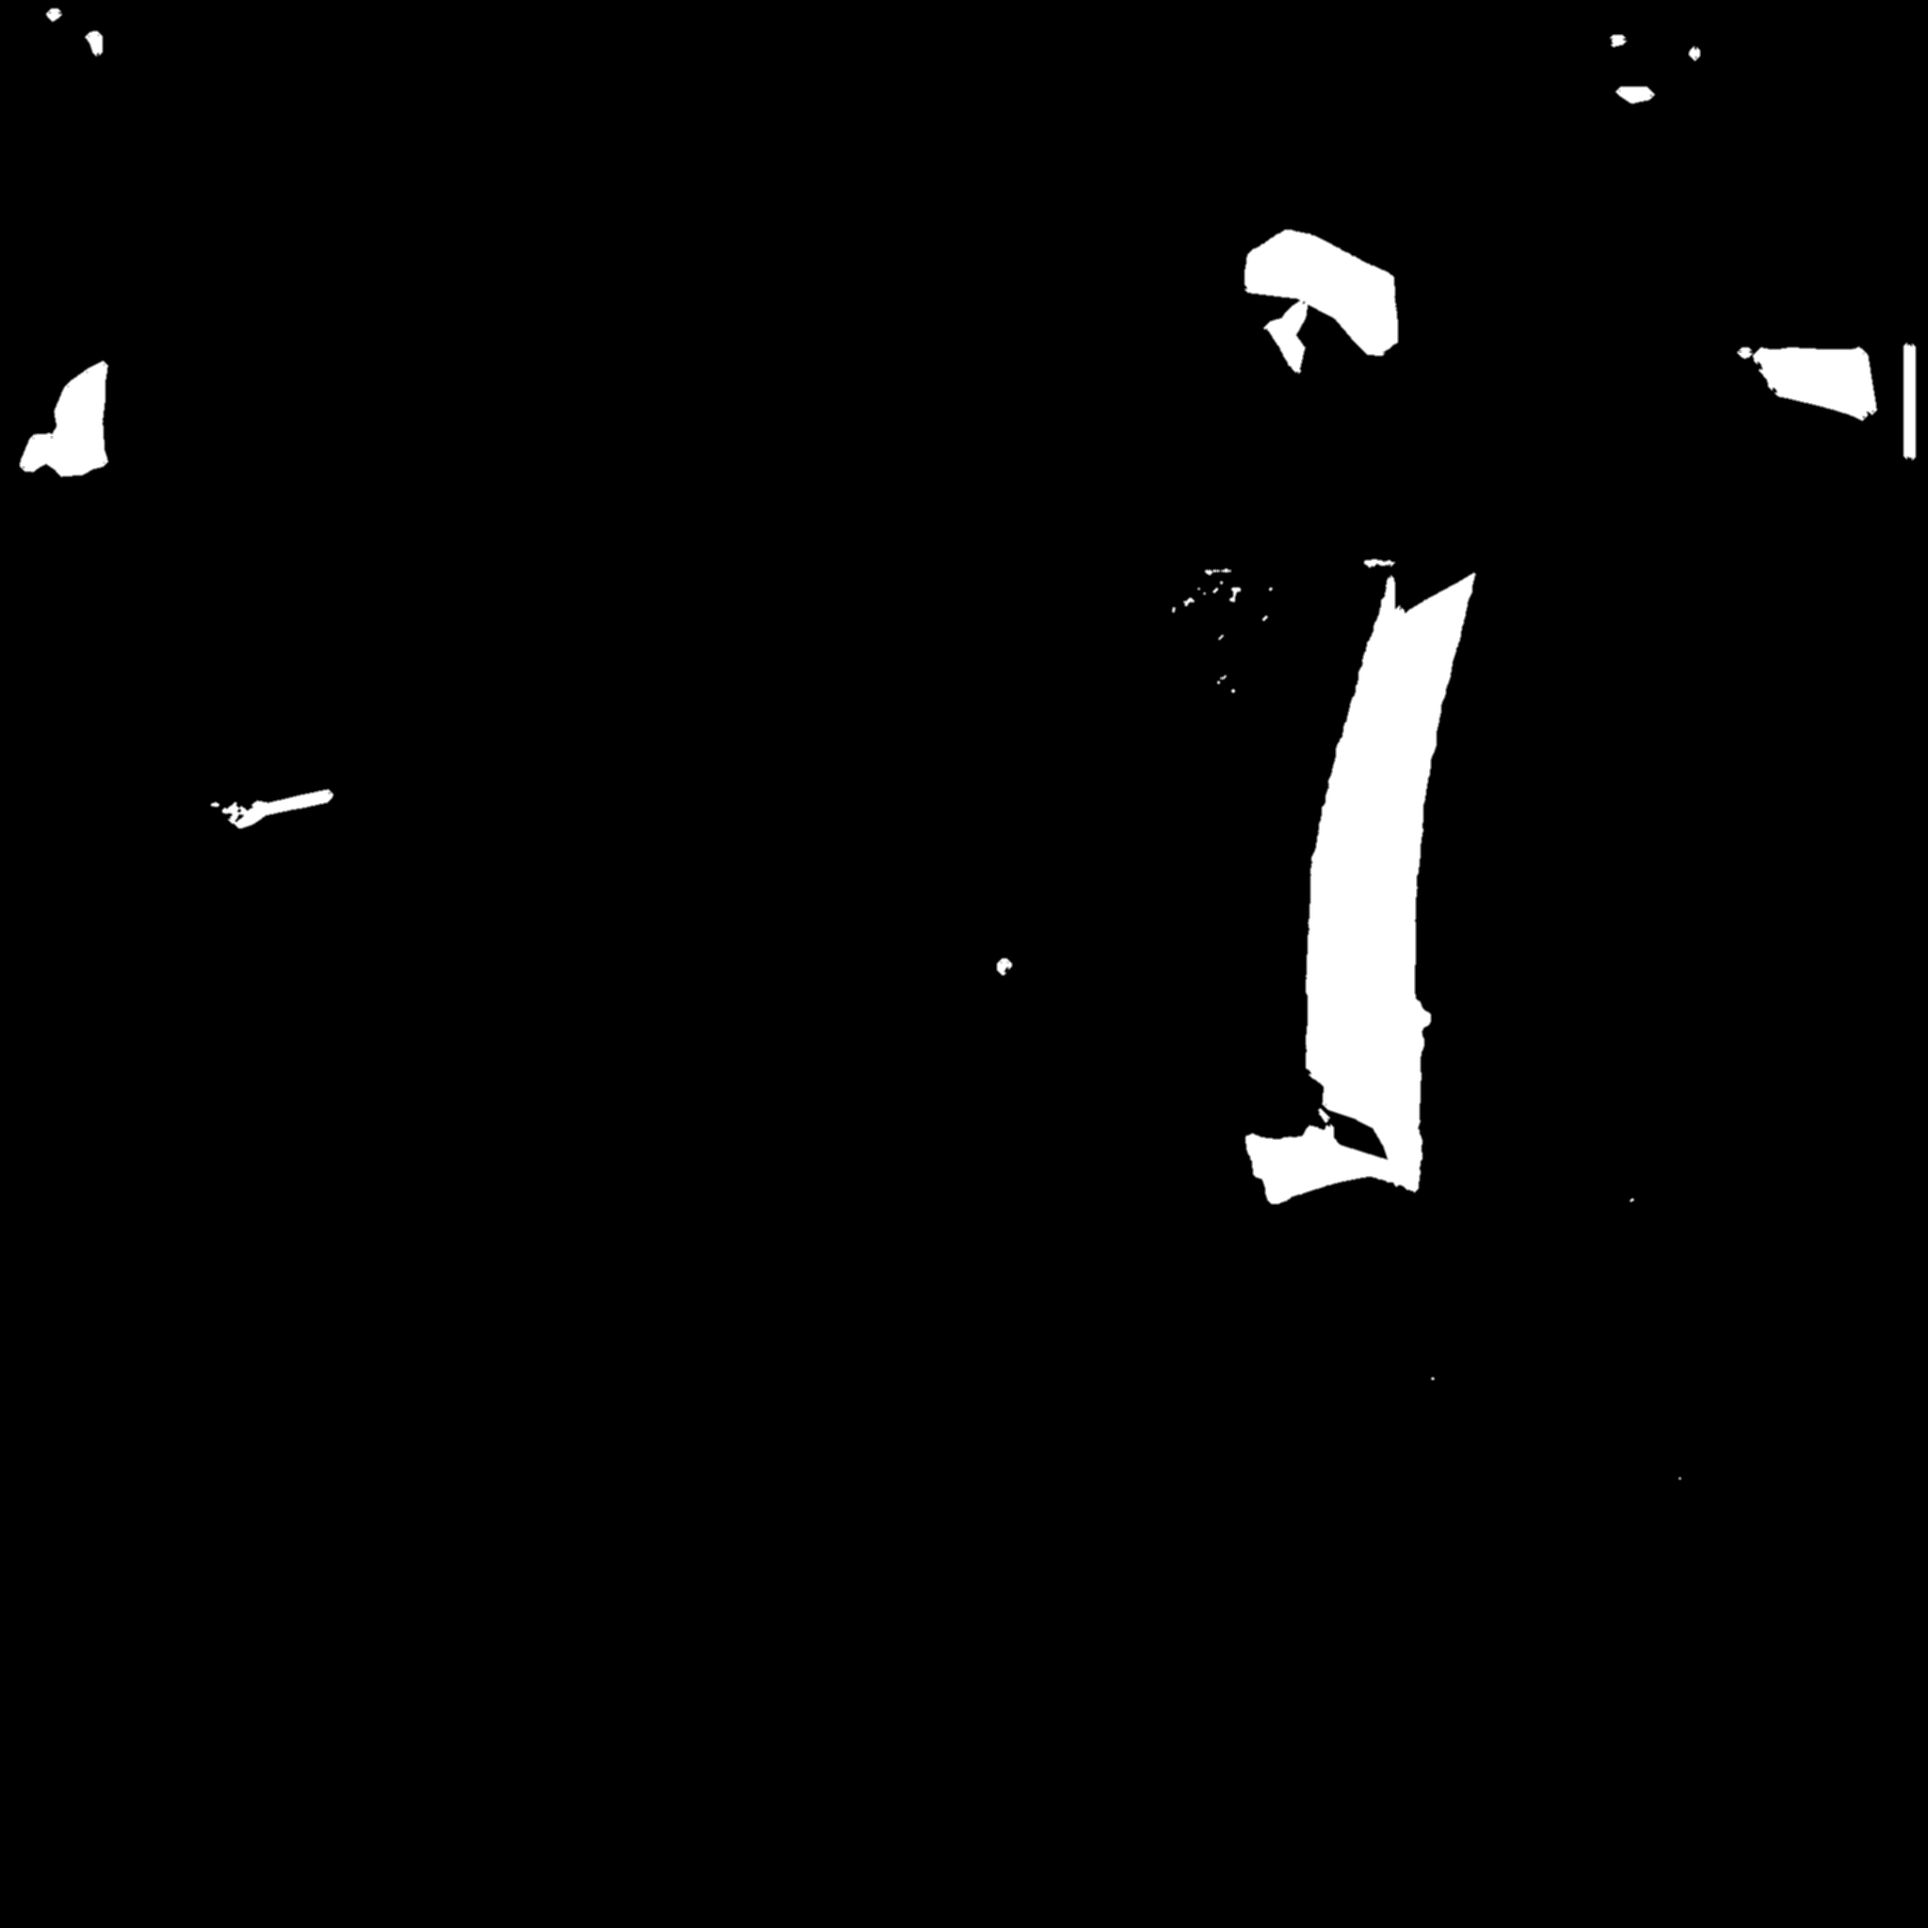
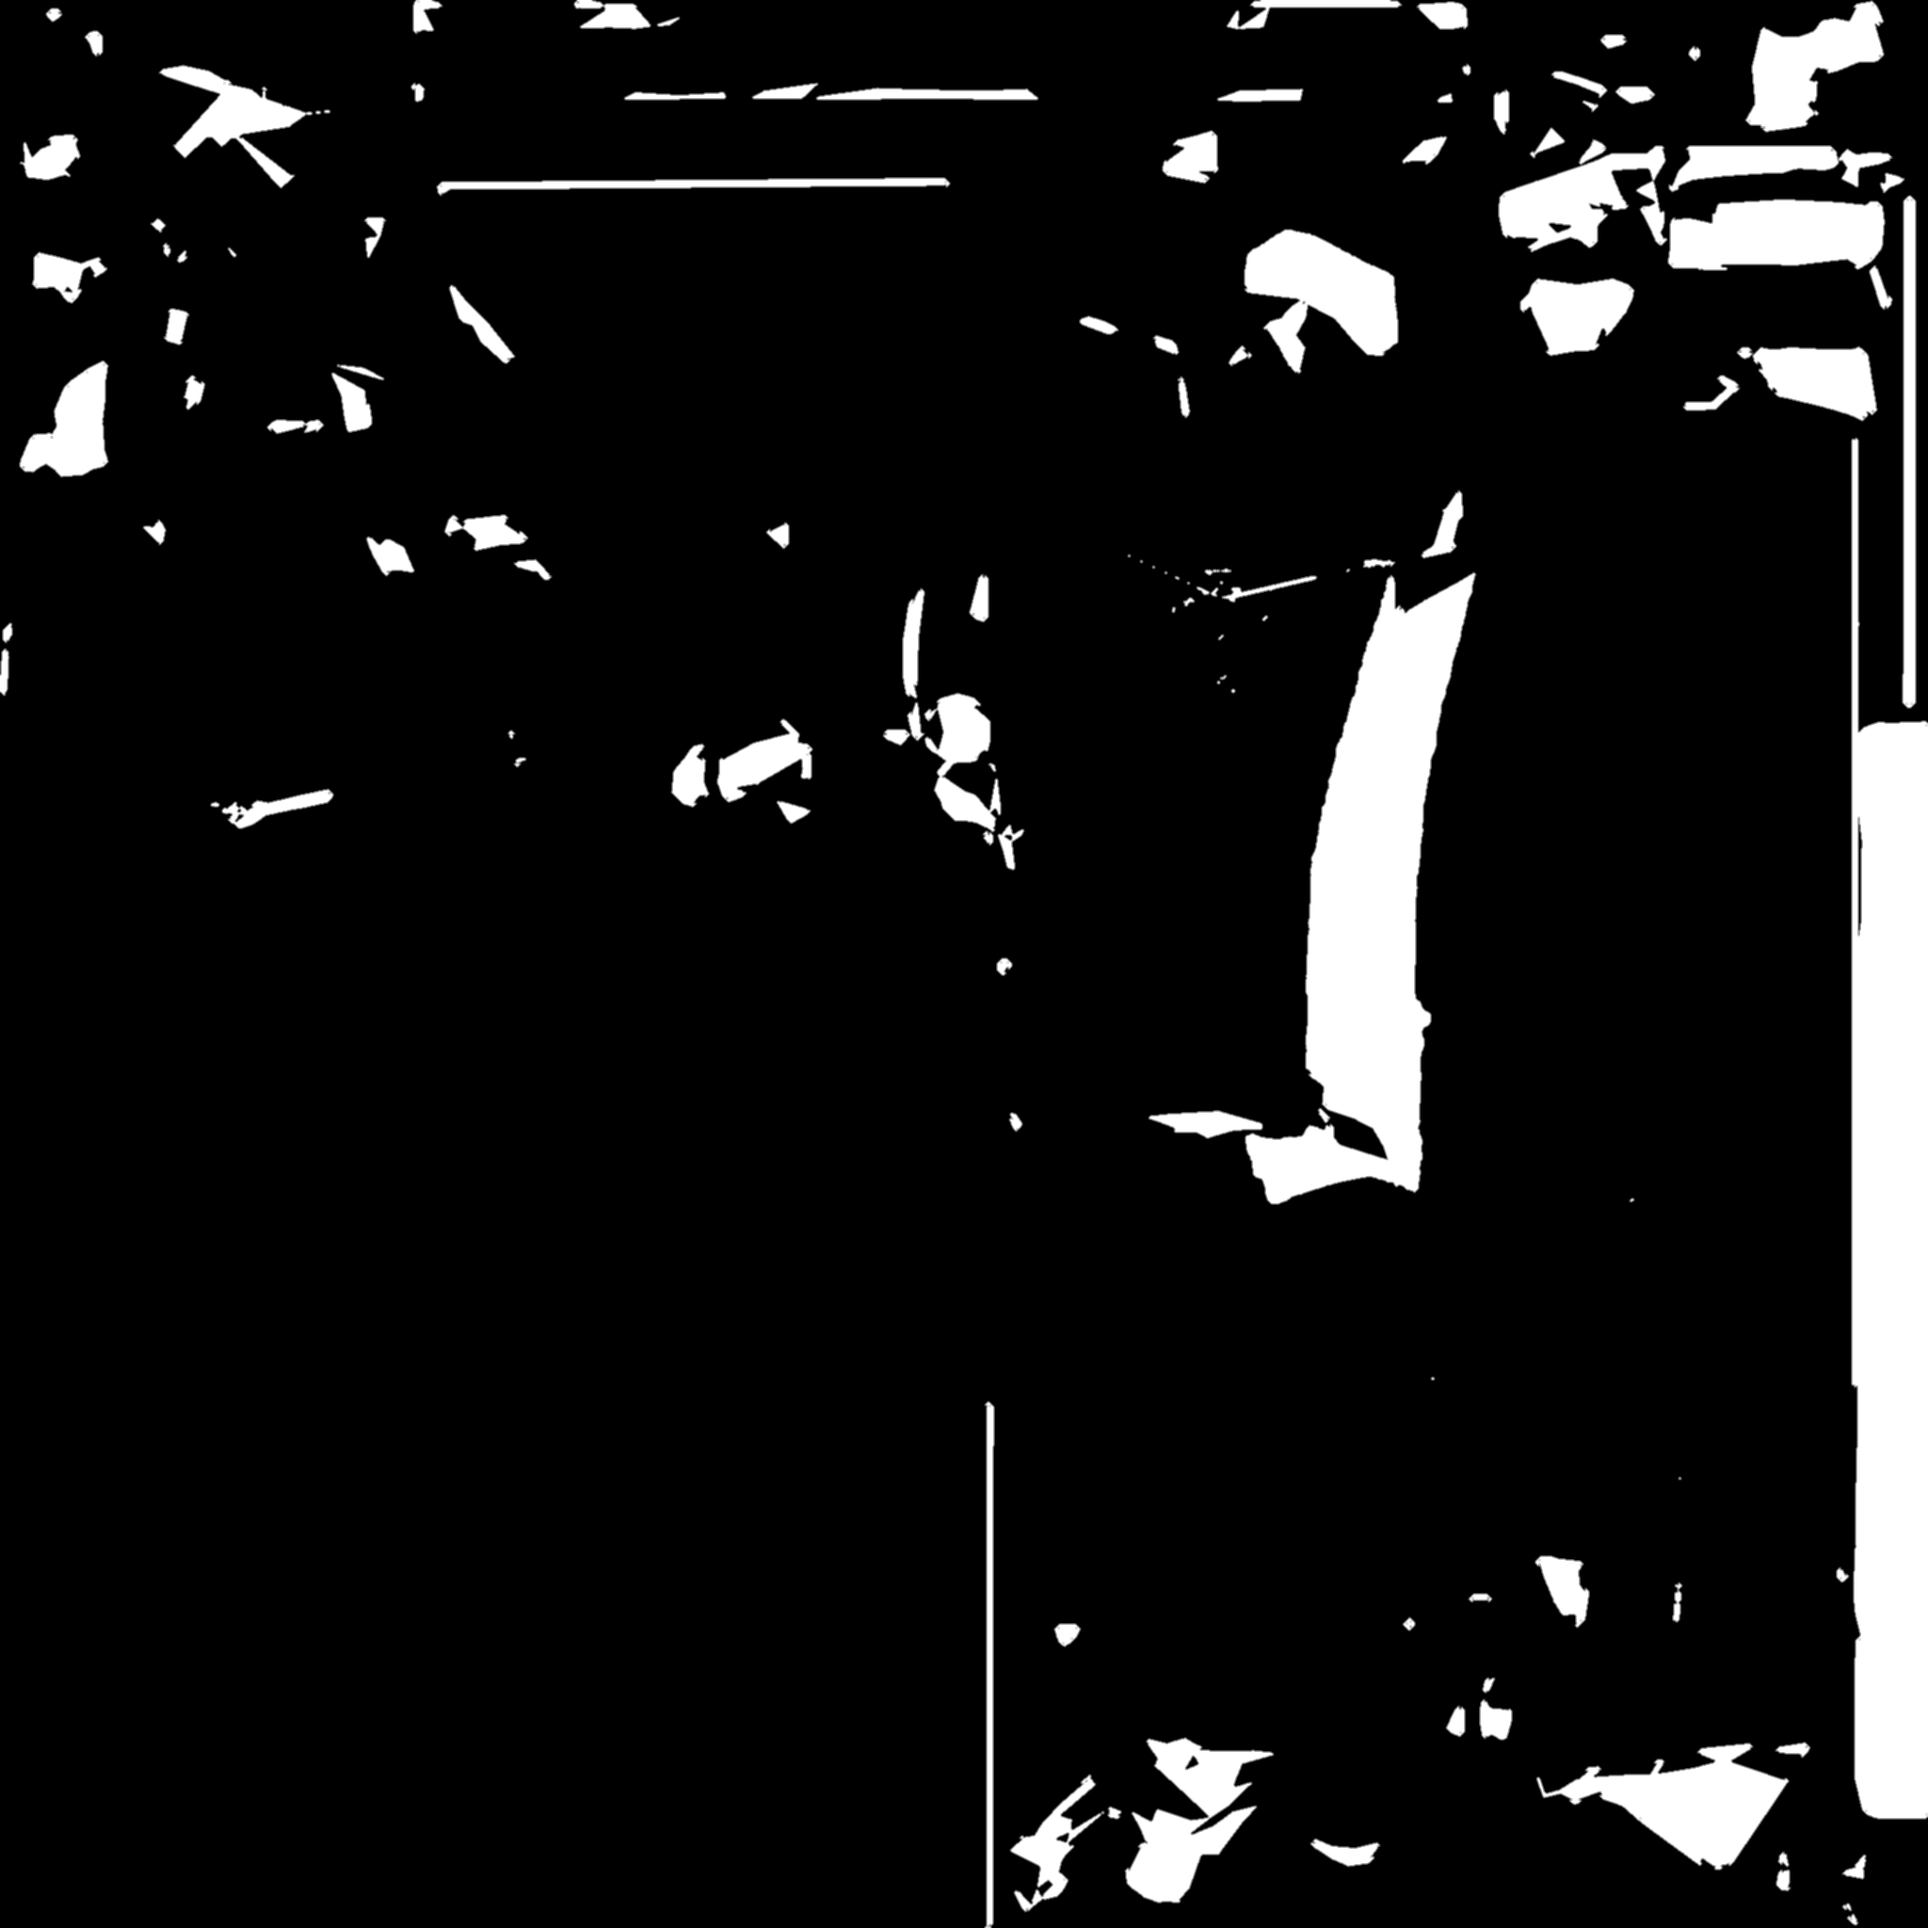
Proceso 58: más color del equipo en los edificios (faja bajo el alero y cumbrera en la máscara); Tawantinsuyu aprobado

diff --git a/tools/mascara_equipo_3d.py b/tools/mascara_equipo_3d.py
@@ -21,6 +21,9 @@ Además:
 - imprime `luz_ref` (luminancia lineal media de lo enmascarado), que el shader usa para que el
   color del equipo salga con el brillo de la tela original;
 - --hoja arma la comprobación: atlas | máscara;
+- --faja=f y --cumbrera=c (edificios): además del rojo de la textura, una faja en las paredes justo
+  bajo el techo o una terraza (a menos de f × alto) y la cumbrera (los techos en el c × alto de
+  arriba), para que el color del equipo se vea desde la cámara del juego;
 - --edificio (proceso/58-edificios-locales): sin detección de manos ni brazos y un rojo más estricto
   (--tono, --sat, --val ajustan el corte), para las telas y fajas rojas de los edificios.
 
@@ -87,12 +90,36 @@ else:
 
 # Rasterizado de los triángulos en UV: qué texeles cubre alguna cara, cuáles están en la banda y
 # cuáles son de las manos.
+# Faja bajo el alero y cumbrera (edificios, proceso/58): superficie geométrica que también toma el
+# color del equipo, aunque la textura no la traiga en rojo (una faja tejida bajo la paja, una
+# cumbrera). --faja=f: paredes con un techo (o una terraza) a menos de f × alto por encima;
+# --cumbrera=c: techos en el c × alto más alto del modelo.
+faja = float(opt.get("faja", "0"))
+cumbrera = float(opt.get("cumbrera", "0"))
+dup = None
+if faja > 0 or cumbrera > 0:
+    from mathutils import Vector
+    from mathutils.bvhtree import BVHTree
+    m3 = mw.to_3x3()
+    wv = [mw @ vx.co for vx in me.vertices]
+    bvh = BVHTree.FromPolygons(wv, [pl.vertices[:] for pl in me.polygons])
+    zw = np.array([p.z for p in wv], np.float32)
+    alto = float(zw.max() - zw.min())
+    pn = [(m3 @ pl.normal).normalized() for pl in me.polygons]
+    dup = np.full(len(wv), 10.0, np.float32)  # distancia al techo de arriba, en fracción del alto
+    arriba = Vector((0, 0, 1))
+    for i, p in enumerate(wv):
+        o = p + (m3 @ me.vertices[i].normal).normalized() * (0.01 * alto) + arriba * (0.002 * alto)
+        hit = bvh.ray_cast(o, arriba, alto)
+        if hit[0] is not None and abs(pn[hit[2]].z) > 0.25:  # el alero por abajo (malla cerrada) o una terraza
+            dup[i] = hit[3] / alto
 me.calc_loop_triangles()
 uv = me.uv_layers.active.data
 cubre = np.zeros((H, W), bool)
 en_banda = np.zeros((H, W), bool)
 de_mano = np.zeros((H, W), bool)
 de_brazo = np.zeros((H, W), bool)
+geo = np.zeros((H, W), bool)  # faja y cumbrera
 for t in me.loop_triangles:
     p = np.array([uv[l].uv[:] for l in t.loops], dtype=np.float64) * [W, H]
     zz = float(np.mean(z[list(t.vertices)]))
@@ -117,6 +144,15 @@ for t in me.loop_triangles:
     cubre[sub] |= dentro
     if ok:
         en_banda[sub] |= dentro
+    if dup is not None:
+        vi = list(t.vertices)
+        nz = (m3 @ t.normal).normalized().z
+        if faja > 0 and abs(nz) < 0.5:
+            dd = l1 * dup[vi[0]] + l2 * dup[vi[1]] + l3 * dup[vi[2]]
+            geo[sub] |= dentro & (dd < faja)
+        if cumbrera > 0 and nz > 0.3:
+            zt = l1 * z[vi[0]] + l2 * z[vi[1]] + l3 * z[vi[2]]
+            geo[sub] |= dentro & (zt > 1.0 - cumbrera)
     if mano[list(t.vertices)].sum() >= 2:
         de_mano[sub] |= dentro
     if "con-brazos" not in opt and brazo[list(t.vertices)].sum() >= 2:
@@ -161,6 +197,9 @@ else:
     gris = (s < 0.10) & (v < 0.55)  # metal, piedra
     m = ~piel & ~pelo & ~gris
 m &= cubre & en_banda if banda is not None else cubre
+if dup is not None:
+    print(f"FAJA/CUMBRERA: {geo.sum() / max(1, cubre.sum()):.1%} de la superficie")
+    m |= geo & cubre
 m &= ~de_mano  # las manos nunca (palmas rojizas, la herramienta en el puño)
 if "dbg" in opt and metodo == "ropa":
     zona = cubre & en_banda

diff --git a/proceso/58-edificios-locales/armar_piezas.py b/proceso/58-edificios-locales/armar_piezas.py
@@ -228,8 +228,10 @@ SEMILLA2 = {"tawantinsuyu_casa_rojo": 22, "tawantinsuyu_centro": 22, "tawantinsu
             "tawantinsuyu_qollqa": 22, "tawantinsuyu_campo_tiro": 22, "tawantinsuyu_torre": 21,
             "tawantinsuyu_fortaleza": 21, "tawantinsuyu_mercado": 22, "tawantinsuyu_ushnu": 21, "tawantinsuyu_maravilla": 21}
 TEXTURA_PX2 = 2048
+# Terrazas sin alero: la faja no las encuentra; la cumbrera tiñe la plataforma de arriba.
+MASCARA_PIEZA = {"tawantinsuyu_fortaleza": {"cumbrera": 0.12}, "tawantinsuyu_maravilla": {"cumbrera": 0.12}}
 # Paint corre el rojo al carmesí (330–345°): tono más ancho donde los techos no son rojizos.
-MASCARA2 = {"tawantinsuyu": {"tono": 22}}  # Paint a 2048 para que la paja no se vuelva una lámina lisa
+MASCARA2 = {"tawantinsuyu": {"tono": 22, "faja": 0.15, "cumbrera": 0.1}}  # Paint a 2048 para que la paja no se vuelva una lámina lisa
 
 
 def prompt2(civ, tipo, que, rojo):
@@ -298,7 +300,7 @@ def main():
                 pieza["textura_px"] = TEXTURA_PX2
                 pieza["mezcla"] = True  # techos de la referencia (gen3d_mezcla.py): la paja no se alisa
                 pieza["suelo_pct"] = 6  # la sombra de FLUX dejaba una lámina al pie
-                pieza["mascara"] = MASCARA2.get(civ, {})
+                pieza["mascara"] = {**MASCARA2.get(civ, {}), **MASCARA_PIEZA.get(clave, {})}
             piezas[clave] = pieza
             n += 1
     for clave, (tipo, cat, que) in MV.items():

diff --git a/proceso/58-edificios-locales/README.md b/proceso/58-edificios-locales/README.md
@@ -90,6 +90,21 @@ Lo sagrado sigue sin rojo: qorikancha, nguillatuwe, casa del karai, iglesia, mon
 - **Hunyuan 2mv** con frente y costado de una misma hoja de FLUX (`tawantinsuyu_casa_mv`, `tawantinsuyu_cuartel_mv`): resultado abajo.
 - **Recintos amurallados grandes**: qorikancha, pukara mayor, aqllawasi, Vilcabamba y kallanka real **no se rehacen**. Vuelven a su maqueta y pasan a la lista de candidatos a Meshy.
 
+### Más color del equipo (pedido del autor: «tienen que tener algo más, si no ni se nota»)
+
+El autor aprobó el estilo de la segunda pasada, pero las cortinas solas (1–8 % de la superficie) no se veían. Ahora la máscara suma **superficie geométrica**, sin rehacer las formas:
+
+- `--faja=f`: una faja tejida en las paredes, justo bajo el alero o bajo una terraza. Desde cada vértice se tira un rayo hacia arriba y, si toca un alero o una terraza a menos de f × alto, la pared toma el color. Como la malla es cerrada, el rayo toca la cara de abajo del alero.
+- `--cumbrera=c`: los techos en el c × alto de más arriba (una faja en la cumbrera; la plataforma en las terrazas).
+
+En el Tawantinsuyu se usa faja 0,15 y cumbrera 0,10 (tono ±22°): la cobertura queda entre el 10 y el 23 %. Las excepciones son la fortaleza (6 %) y la maravilla (4 %): sus terrazas no tienen alero, así que llevan el estandarte. Se rehízo solo el paso `mascara`.
+
+![Color: antes y después, azul y violeta](img/color_antes_despues_tawantinsuyu.jpg)
+
+![Base del Tawantinsuyu con el color nuevo, azul](img/base_tawantinsuyu_p3_azul.jpg)
+
+![Base del Tawantinsuyu con el color nuevo, violeta](img/base_tawantinsuyu_p3_violeta.jpg)
+
 ### Resultado en el Tawantinsuyu
 
 ![Antes y después, modelo por modelo](img/antes_despues_tawantinsuyu.jpg)
